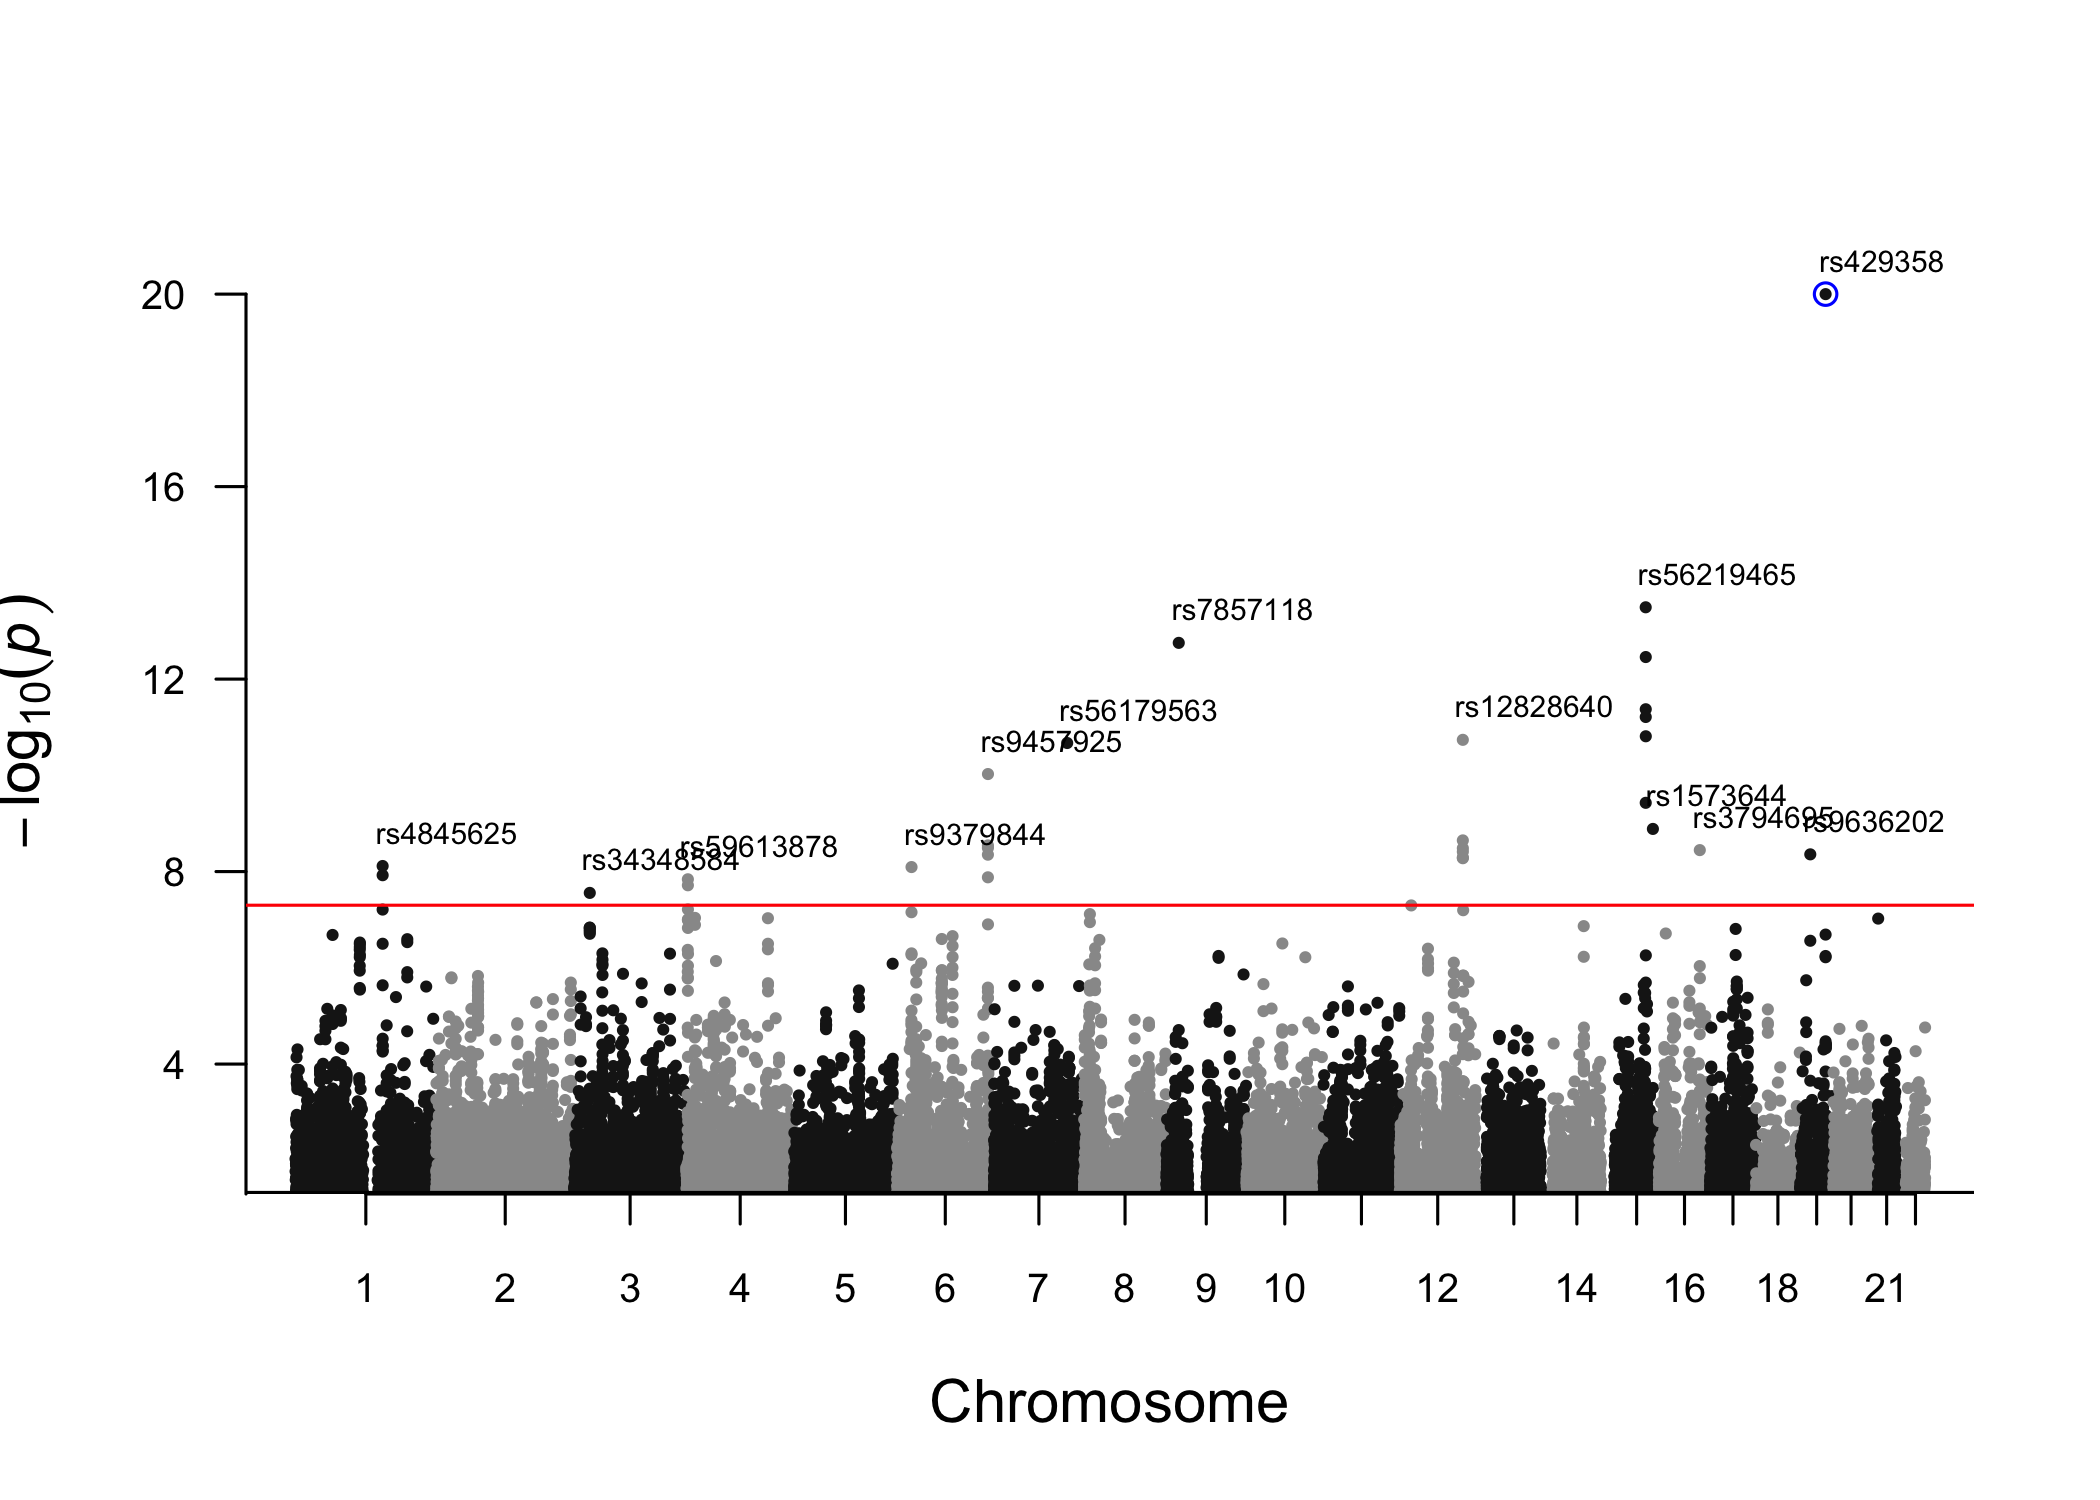
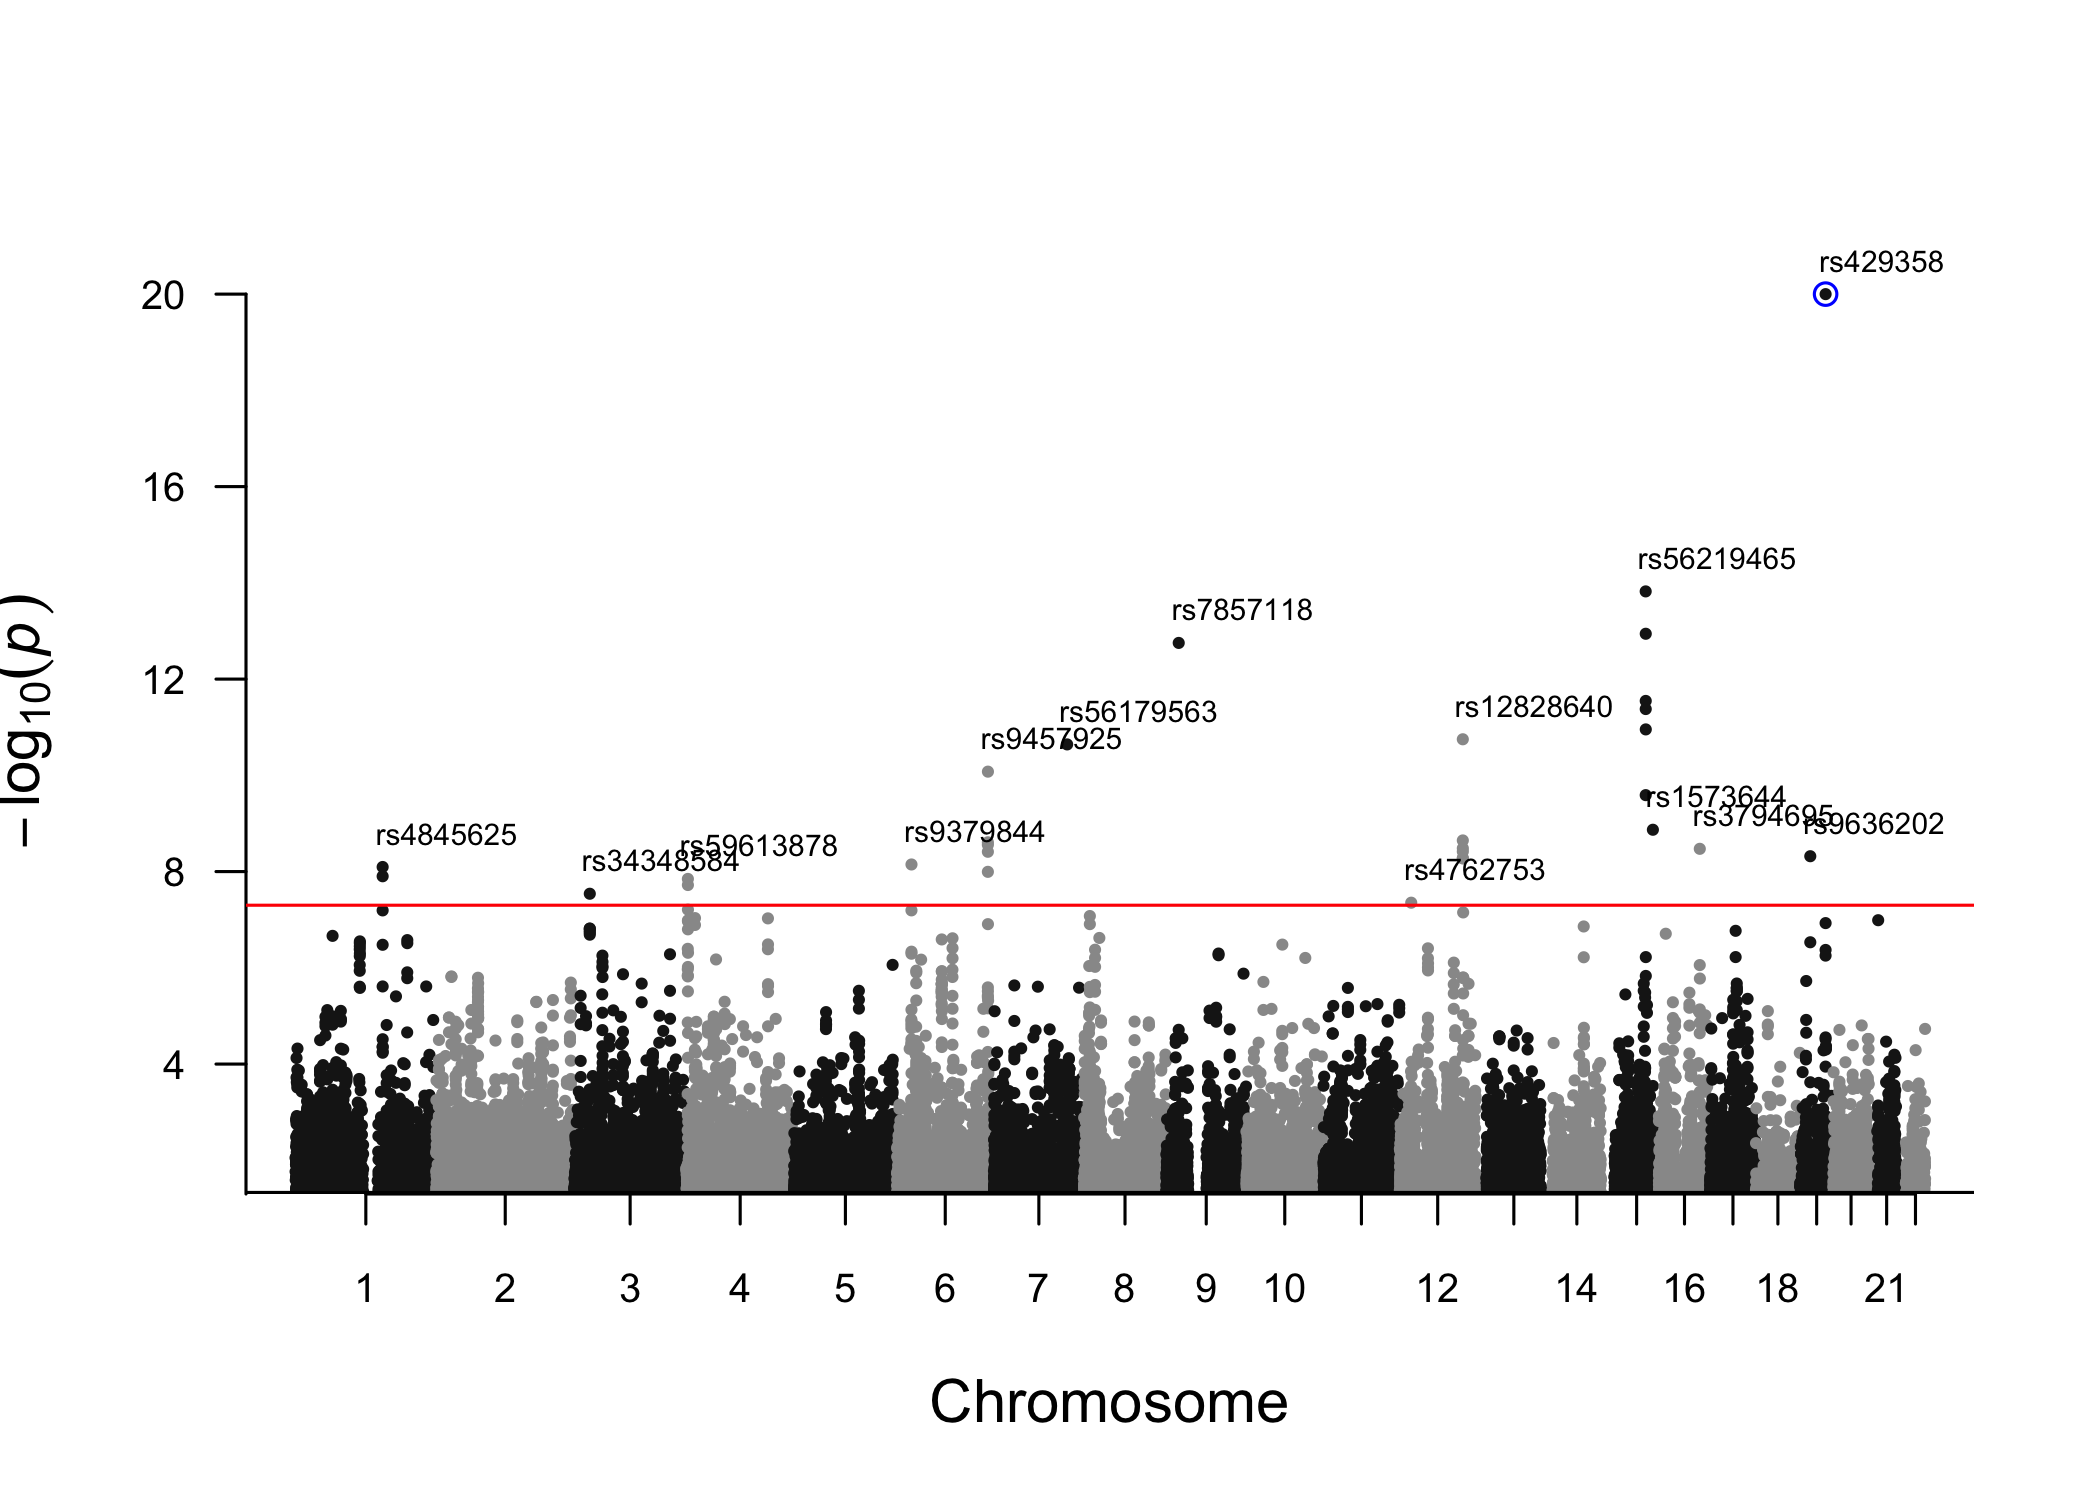
v1.0.2 : Add tr(var(gamma)) to var(mu_i)

diff --git a/README.md b/README.md
@@ -1,6 +1,6 @@
 
 [![](https://travis-ci.org/n-mounier/bGWAS.svg?branch=master)](https://travis-ci.org/n-mounier/bGWAS)
-[![](https://img.shields.io/badge/version-1.0.1-informational.svg)](https://github.com/n-mounier/bGWAS)
+[![](https://img.shields.io/badge/version-1.0.2-informational.svg)](https://github.com/n-mounier/bGWAS)
 [![](https://img.shields.io/badge/lifecycle-maturing-9cf.svg)](https://www.tidyverse.org/lifecycle/#maturing)
 [![](https://img.shields.io/github/last-commit/n-mounier/bGWAS.svg)](https://github.com/n-mounier/bGWAS/commits/master)
 [![](https://img.shields.io/badge/license-GPL--2.0-lightgrey.svg)](https://www.gnu.org/licenses/old-licenses/gpl-2.0.en.html)
@@ -351,8 +351,8 @@ print(A)
     ## 
     ## -_-_-_-_-_-_-_-_-_-_-_-_-_-_-_ 
     ##  
-    ## 13 significant SNPs identified : 
-    ##  rs429358, rs56219465, rs7857118, rs12828640, rs56179563, rs9457925, rs1573644, rs3794695, rs9636202, rs4845625, rs9379844, rs59613878, rs34348584
+    ## 14 significant SNPs identified : 
+    ##  rs429358, rs56219465, rs7857118, rs12828640, rs56179563, rs9457925, rs1573644, rs3794695, rs9636202, rs9379844, rs4845625, rs59613878, rs34348584, rs4762753
     ## 
     ## -_-_-_-_-_-_-_-_-_-_-_-_-_-_-_
 
@@ -374,7 +374,7 @@ print_log_bGWAS(A)
     ## The conventional GWAS used as input the object: "GWAS".  
     ##    SNPID column, ok - ALT column, ok - REF column, ok - BETA column, ok - SE column, ok
     ## Posterior effects will be rescaled using BETA and SE.
-    ## The analysis will be run in the folder: "/Users/nmounier/Documents/SGG/Projects/Packaging/bGWAS".  
+    ## The analysis will be run in the folder: "/Users/nmounier/bin/annovar".  
     ## The p-value threshold used for selecting MR instruments is: 1e-06.  
     ## The minimum number instruments required for each trait is: 3.  
     ## The distance used for pruning MR instruments is: 500Kb.  
@@ -581,25 +581,25 @@ print_log_bGWAS(A)
     ## Identification based on BFs 
     ##    Starting with 286,807 SNPs 
     ## # Selecting significant SNPs according to p-values... 
-    ## 29 SNPs left 
+    ## 30 SNPs left 
     ## Done! 
     ## # Pruning significant SNPs... 
     ##    distance : 500Kb 
-    ## 13 SNPs left 
+    ## 14 SNPs left 
     ## Done! 
     ## Identification based on posterior effects 
     ##    Starting with 286,807 SNPs 
     ## # Selecting significant SNPs according to p-values... 
-    ## 50 SNPs left 
+    ## 44 SNPs left 
     ## Done! 
     ## # Pruning significant SNPs... 
     ##    distance : 500Kb 
-    ## 19 SNPs left 
+    ## 17 SNPs left 
     ## Done! 
     ## Identification based on direct effects 
     ##    Starting with 286,807 SNPs 
     ## # Selecting significant SNPs according to p-values... 
-    ## 5 SNPs left 
+    ## 4 SNPs left 
     ## Done! 
     ## # Pruning significant SNPs... 
     ##    distance : 500Kb 
@@ -608,7 +608,7 @@ print_log_bGWAS(A)
     ## 
     ## 
     ## <><><><><><><><><><><><><><><><><><><><><><><><><><><><><><><><><><><><><><><><><><><><>
-    ## Time of the analysis: 2 minute(s) and 6 second(s).
+    ## Time of the analysis: 2 minute(s) and 18 second(s).
     ```
 
 </details>
@@ -623,7 +623,7 @@ hits = extract_results_bGWAS(A, SNPs = "significant")
 hits
 ```
 
-    ## # A tibble: 13 x 14
+    ## # A tibble: 14 x 14
     ##    rsid       chrm_UK10K pos_UK10K alt   ref      beta      se z_obs
     ##    <chr>           <dbl>     <dbl> <chr> <chr>   <dbl>   <dbl> <dbl>
     ##  1 rs429358           19  45411941 T     C      0.106  0.00546 19.3 
@@ -635,40 +635,43 @@ hits
     ##  7 rs1573644          15  91421283 T     C      0.0201 0.00412  4.88
     ##  8 rs3794695          16  72097827 T     C     -0.0260 0.00491 -5.30
     ##  9 rs9636202          19  18449238 A     G      0.0194 0.00441  4.40
-    ## 10 rs4845625           1 154422067 T     C     -0.0180 0.00389 -4.63
-    ## 11 rs9379844           6  26291527 A     G      0.0219 0.00399  5.50
+    ## 10 rs9379844           6  26291527 A     G      0.0219 0.00399  5.50
+    ## 11 rs4845625           1 154422067 T     C     -0.0180 0.00389 -4.63
     ## 12 rs59613878          4   3139152 T     C      0.0206 0.00420  4.90
     ## 13 rs34348584          3  27532704 T     C      0.0201 0.00450  4.46
+    ## 14 rs4762753          12  20579969 T     G      0.0259 0.00487  5.31
     ##    mu_prior_estimate mu_prior_std_error beta_prior_estimate
     ##                <dbl>              <dbl>               <dbl>
-    ##  1            -0.351              0.588            -0.00192
-    ##  2             0.790              0.598             0.00324
-    ##  3             2.61               0.859             0.0101 
-    ##  4            -2.34               0.658            -0.00934
-    ##  5             3.37               0.718             0.0137 
-    ##  6            -1.72               0.608            -0.0250 
-    ##  7             2.43               0.675             0.0100 
-    ##  8            -1.69               0.584            -0.00831
-    ##  9             3.12               0.607             0.0137 
-    ## 10            -2.29               0.645            -0.00891
-    ## 11             1.43               0.538             0.00571
-    ## 12             1.78               0.584             0.00750
-    ## 13             2.11               0.675             0.00950
+    ##  1            -0.351              0.611            -0.00192
+    ##  2             0.790              0.622             0.00324
+    ##  3             2.61               0.876             0.0101 
+    ##  4            -2.34               0.680            -0.00934
+    ##  5             3.37               0.737             0.0137 
+    ##  6            -1.72               0.631            -0.0250 
+    ##  7             2.43               0.696             0.0100 
+    ##  8            -1.69               0.608            -0.00831
+    ##  9             3.12               0.630             0.0137 
+    ## 10             1.43               0.564             0.00571
+    ## 11            -2.29               0.665            -0.00891
+    ## 12             1.78               0.607             0.00750
+    ## 13             2.11               0.698             0.00950
+    ## 14             1.16               0.611             0.00564
     ##    beta_prior_std_error      BF     BF_p
     ##                   <dbl>   <dbl>    <dbl>
-    ##  1              0.00321 3.86e18 7.77e-35
-    ##  2              0.00245 1.22e 7 3.22e-14
-    ##  3              0.00332 4.09e 6 1.77e-13
-    ##  4              0.00262 2.12e 5 1.83e-11
-    ##  5              0.00291 1.92e 5 2.13e-11
-    ##  6              0.00883 7.62e 4 9.40e-11
-    ##  7              0.00278 1.55e 4 1.30e- 9
-    ##  8              0.00287 8.53e 3 3.58e- 9
-    ##  9              0.00268 7.58e 3 4.38e- 9
-    ## 10              0.00251 5.49e 3 7.66e- 9
-    ## 11              0.00215 5.33e 3 8.05e- 9
-    ## 12              0.00245 3.82e 3 1.44e- 8
-    ## 13              0.00303 2.64e 3 2.77e- 8
+    ##  1              0.00334 7.00e19 5.90e-37
+    ##  2              0.00255 2.11e 7 1.51e-14
+    ##  3              0.00339 4.32e 6 1.77e-13
+    ##  4              0.00271 2.27e 5 1.78e-11
+    ##  5              0.00299 1.95e 5 2.28e-11
+    ##  6              0.00915 8.63e 4 8.38e-11
+    ##  7              0.00287 1.60e 4 1.35e- 9
+    ##  8              0.00298 9.34e 3 3.36e- 9
+    ##  9              0.00278 7.60e 3 4.79e- 9
+    ## 10              0.00225 6.04e 3 7.12e- 9
+    ## 11              0.00259 5.64e 3 8.03e- 9
+    ## 12              0.00255 4.07e 3 1.42e- 8
+    ## 13              0.00314 2.72e 3 2.89e- 8
+    ## 14              0.00298 2.14e 3 4.43e- 8
 
 ``` r
 all_results = extract_results_bGWAS(A, SNPs = "all")
@@ -682,19 +685,19 @@ nrow(all_results)
 extract_results_bGWAS(A, SNPs = "significant", results = "direct")
 ```
 
-    ## # A tibble: 2 x 14
+    ## # A tibble: 2 x 15
     ##   rsid       chrm_UK10K pos_UK10K alt   ref      beta      se z_obs
     ##   <chr>           <dbl>     <dbl> <chr> <chr>   <dbl>   <dbl> <dbl>
     ## 1 rs429358           19  45411941 T     C      0.106  0.00546  19.3
     ## 2 rs11633958         15  78862064 T     C     -0.0418 0.00410 -10.2
     ##   mu_direct_estimate mu_direct_std_error beta_direct_estimate
     ##                <dbl>               <dbl>                <dbl>
-    ## 1              19.7                 1.16               0.108 
-    ## 2              -9.99                1.16              -0.0410
-    ##   beta_direct_std_error z_direct p_direct
-    ##                   <dbl>    <dbl>    <dbl>
-    ## 1               0.00634    17.0  1.60e-64
-    ## 2               0.00477    -8.59 8.58e-18
+    ## 1              19.7                 1.17               0.108 
+    ## 2              -9.99                1.18              -0.0410
+    ##   beta_direct_std_error z_direct p_direct   CRR
+    ##                   <dbl>    <dbl>    <dbl> <dbl>
+    ## 1               0.00640    16.8  2.96e-63 1.02 
+    ## 2               0.00482    -8.50 1.90e-17 0.981
 
 ``` r
 extract_MRcoeffs_bGWAS(A)[,1:12]
